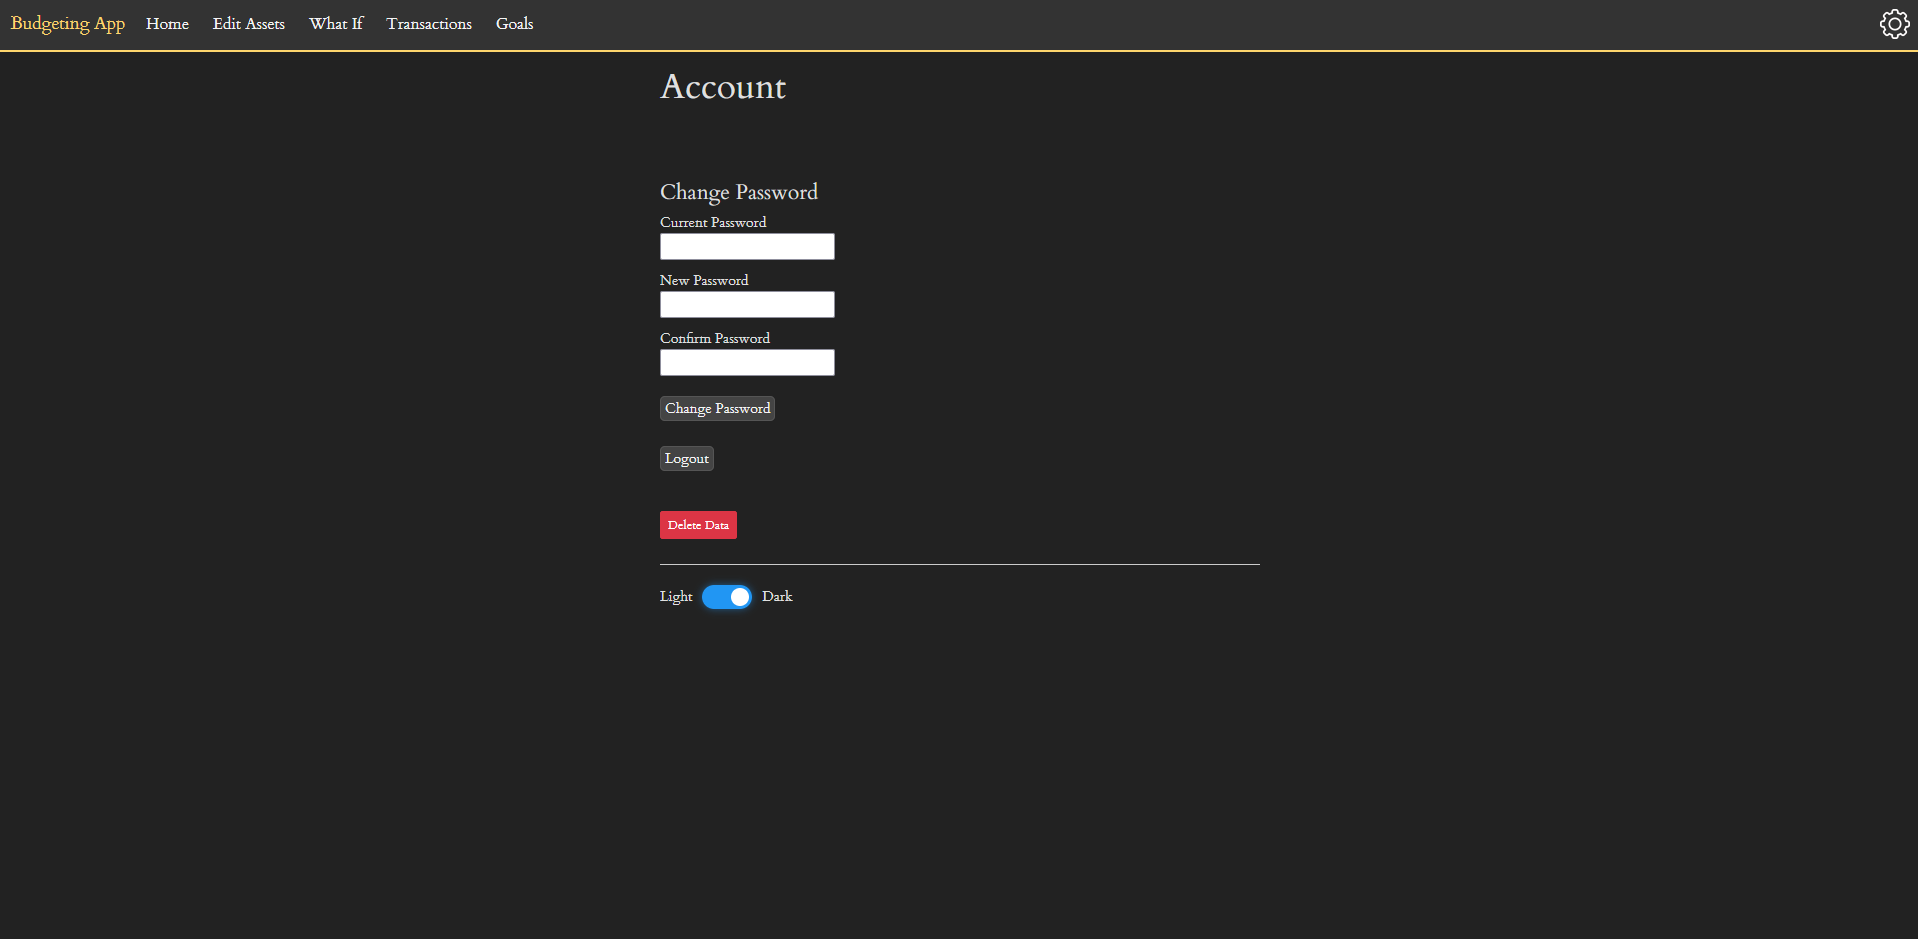
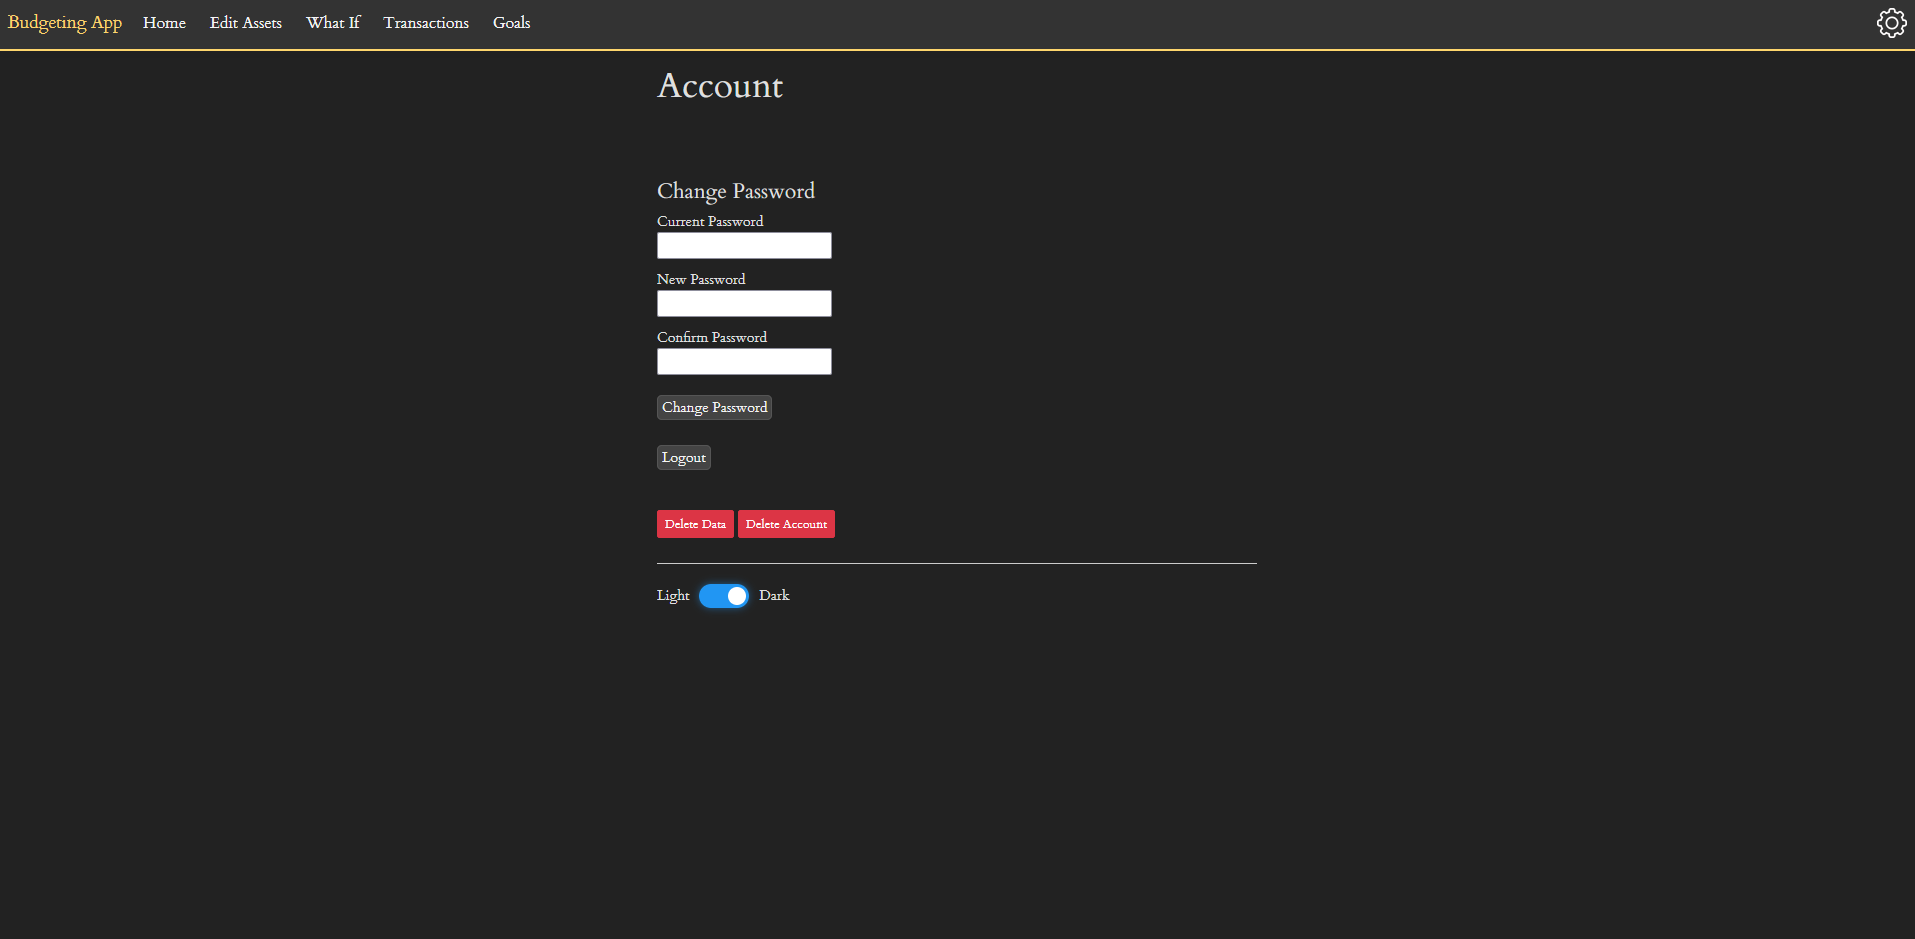
Add delete account option in Settings; Add notifications to login page; Update affected screenshots

diff --git a/BudgetingApp/Controllers/HomeController.cs b/BudgetingApp/Controllers/HomeController.cs
@@ -145,7 +145,7 @@ namespace BudgetingApp.Controllers
             // Redirect to the login page if the user is not signed in
             if (string.IsNullOrEmpty(currentUser))
                 return RedirectToAction("Login", "Auth");
-            
+
             bool success = await _assetService.IncrementBalanceAsync(currentUser, amountToAdd);
 
             if (!success)
@@ -170,8 +170,8 @@ namespace BudgetingApp.Controllers
                 return RedirectToAction("Login", "Auth");
 
             bool success = await _assetService.IncrementBalanceAsync(currentUser, amountToSubtract);
-            
-            if (!success)   
+
+            if (!success)
                 return NotFound($"No asset document found for user: {currentUser}");
 
             return RedirectToAction("Index");
@@ -242,7 +242,7 @@ namespace BudgetingApp.Controllers
             // Redirect to the login page if the user is not signed in
             if (string.IsNullOrEmpty(currentUser))
                 return RedirectToAction("Login", "Auth");
-            
+
             // Set up an intial query for the database
             Query query = _firestoreDb.Collection(_transactionsCollection)
                 .WhereEqualTo("username", currentUser);
@@ -252,7 +252,7 @@ namespace BudgetingApp.Controllers
                 query = query.WhereGreaterThanOrEqualTo("date", DateTime.SpecifyKind(filterStartDate.Value, DateTimeKind.Utc));
 
             if (filterEndDate.HasValue)
-                query = query.WhereLessThanOrEqualTo("date", DateTime.SpecifyKind(filterEndDate.Value, DateTimeKind.Utc)); 
+                query = query.WhereLessThanOrEqualTo("date", DateTime.SpecifyKind(filterEndDate.Value, DateTimeKind.Utc));
 
             // Check the merchant
             if (!string.IsNullOrEmpty(filterMerchant))
@@ -361,12 +361,12 @@ namespace BudgetingApp.Controllers
             {
                 DocumentReference transactionRef = _firestoreDb.Collection("Transactions").Document(transactionId);
                 await transactionRef.DeleteAsync();
-                TempData["SuccessMessage"] = "Transaction deleted successfully."; 
+                TempData["SuccessMessage"] = "Transaction deleted successfully.";
             }
             catch (Exception ex)
             {
                 _logger.LogError($"Error deleting transaction {transactionId}: {ex.Message}");
-                TempData["ErrorMessage"] = "Error deleting transaction. Please try again."; 
+                TempData["ErrorMessage"] = "Error deleting transaction. Please try again.";
             }
 
             return RedirectToAction("Transactions");
@@ -401,7 +401,7 @@ namespace BudgetingApp.Controllers
                         }
                     }
                 }
-                return View(model); 
+                return View(model);
             }
             else
             {
@@ -728,7 +728,7 @@ namespace BudgetingApp.Controllers
                 else
                     Console.WriteLine("No changes detected, not updating Firestore.");
 
-                return RedirectToAction("Goals"); 
+                return RedirectToAction("Goals");
             }
 
             // ModelState is not valid
@@ -745,7 +745,7 @@ namespace BudgetingApp.Controllers
                 }
             }
 
-            return View("Goals"); 
+            return View("Goals");
         }
 
         /// <summary>
@@ -819,6 +819,29 @@ namespace BudgetingApp.Controllers
                 TempData["ErrorMessage"] = "A database error occurred.";
 
             return RedirectToAction("Settings");
+        }
+
+        [HttpPost]
+        public async Task<IActionResult> DeleteAccount()
+        {
+            // Determine who is currently logged in
+            string currentUser = HttpContext.Session.GetString("Username");
+
+            // Redirect to the login page if the user is not signed in
+            if (string.IsNullOrEmpty(currentUser))
+                return RedirectToAction("Login", "Auth");
+            bool success = await _assetService.DeleteAccount(currentUser, _firestoreDb, _transactionsCollection, _goalsCollection, _assetsCollection, _usersCollection);
+            if (success)
+            {
+                HttpContext.Session.Remove("Username");
+                TempData["SuccessMessage"] = "Account deleted successfully!";
+                return RedirectToAction("Login", "Auth");
+            }
+            else
+            {
+                TempData["ErrorMessage"] = "A database error occurred.";
+                return RedirectToAction("Settings");
+            }
         }
     }
 }

diff --git a/BudgetingApp/Services/AssetService.cs b/BudgetingApp/Services/AssetService.cs
@@ -179,5 +179,37 @@ namespace BudgetingApp.Services
                 return false;
             }
         }
+
+        public async Task<bool> DeleteAccount(string currentUser, FirestoreDb _firestoreDb, string _usersCollection, string _transactionsCollection, string _goalsCollection, string _assetsCollection)
+        {
+            try
+            {
+                WriteBatch batch = _firestoreDb.StartBatch();
+
+                string[] collectionsToClean = { _transactionsCollection, _goalsCollection, _assetsCollection, _usersCollection };
+
+                foreach (var collectionName in collectionsToClean)
+                {
+                    // Query for all documents where the username field matches the currentUser
+                    CollectionReference collectionRef = _firestoreDb.Collection(collectionName);
+                    Query query = collectionRef.WhereEqualTo("username", currentUser);
+                    QuerySnapshot querySnapshot = await query.GetSnapshotAsync();
+
+                    foreach (DocumentSnapshot documentSnapshot in querySnapshot.Documents)
+                    {
+                        batch.Delete(documentSnapshot.Reference);
+                    }
+                }
+
+                await batch.CommitAsync();
+
+                return true;
+            }
+            catch (Exception ex)
+            {
+                Console.WriteLine($"Error deleting account for {currentUser}: {ex.Message}");
+                return false;
+            }
+        }
     }
 }
